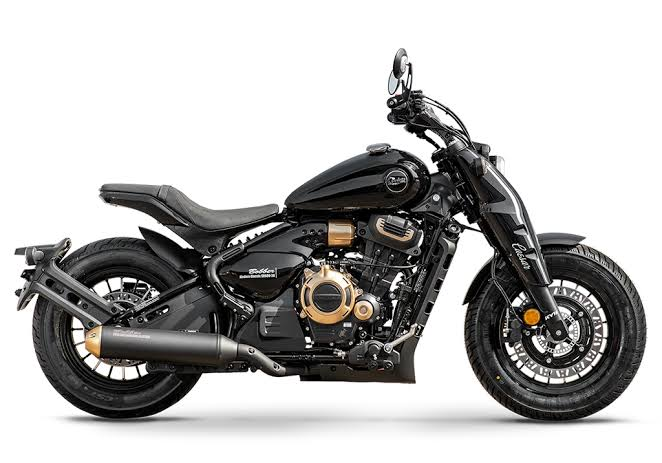
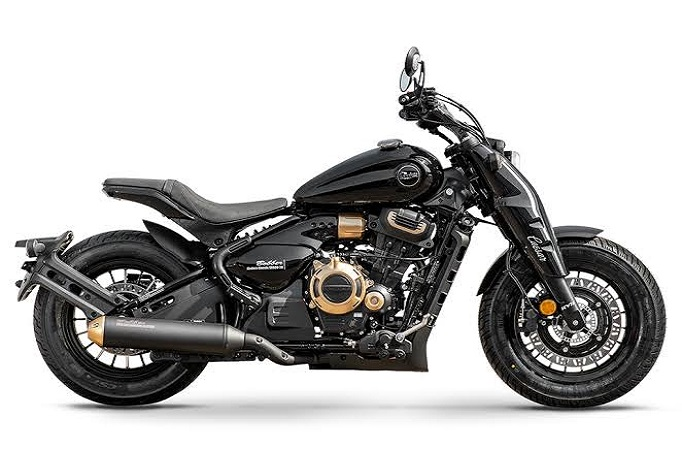
docs:Se ajustan las medidas de las fotos (Posible cambio de fotos

diff --git a/Comparador_Motos/index.html b/Comparador_Motos/index.html
@@ -55,16 +55,16 @@
             <a href="trail.html">Ver motos</a>
           </div>
           <div class="tarjeta">
-            <img src="../Imagenes/Trial.jpeg" class="foto"></img>
-            <h3>Trial</h3>
-            <p>Ligeras y precisas, hechas para superar obstáculos.</p>
-            <a href="trial.html">Ver motos</a>
-          </div>
-          <div class="tarjeta">
             <img src="../Imagenes/Custom.jpeg" class="foto"></img>
             <h3>Custom</h3>
             <p>Estilo clásico, posición relajada y mucho carácter.</p>
             <a href="custom.html">Ver motos</a>
+          </div>
+          <div class="tarjeta">
+            <img src="../Imagenes/Trial.jpeg" class="foto"></img>
+            <h3>Trial</h3>
+            <p>Ligeras y precisas, hechas para superar obstáculos.</p>
+            <a href="trial.html">Ver motos</a>
           </div>
           <div class="tarjeta">
             <img src="../Imagenes/Scooter.jpeg" class="foto"></img>

diff --git a/Comparador_Motos/index.css b/Comparador_Motos/index.css
@@ -94,10 +94,18 @@ body {
 }
 .tabla {
   display: grid;
-  grid-template-columns: repeat(3, 1fr);
+  grid-template-columns: repeat(1, 1fr);
   gap: 65px;
-  /* Establecer medidas y con otra llavecilla poner el estilo para esass medidas */
+}@media (min-width: 576px) {
+.tabla {
+  grid-template-columns: repeat(2, 1fr);
 }
+@media (min-width: 1024px) {
+  .tabla {
+    grid-template-columns: repeat(3, 1fr);
+}
+}
+/* Establecer medidas y con otra llavecilla poner el estilo para esass medidas */
 .tarjeta {
   background: white;
   padding: 16px;
